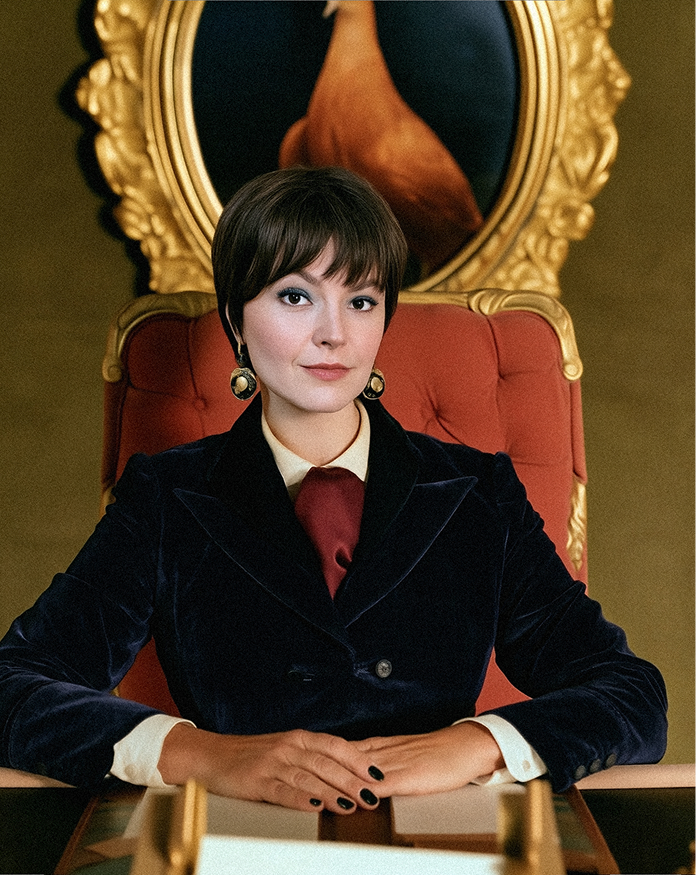
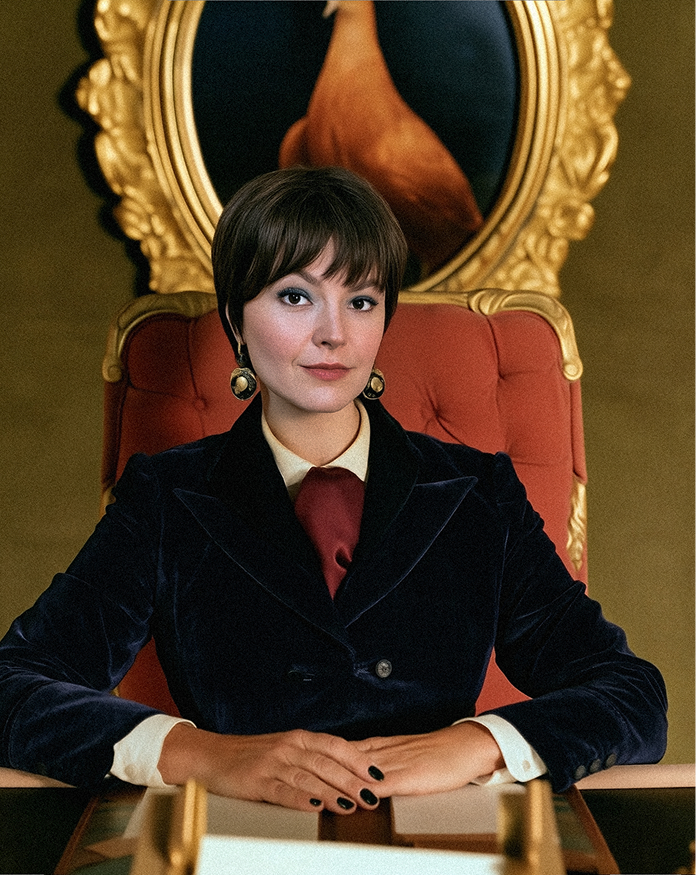
Add files via upload

Changed region(s): [[0.3621, 0.3703, 0.5431, 0.5246]]

diff --git a/index.html b/index.html
@@ -507,9 +507,13 @@
         <div class="employee-meta"><span>Employee ID</span><span>011</span></div>
       </div>
       <div class="employee">
-        <div class="employee-photo">NL</div>
-        <div class="employee-name">Natalia Lipgart</div>
-        <div class="employee-role">Position pending</div>
+        <div class="employee-photo"><img src="natasha.jpg" alt="Natasha Lipgart" loading="lazy"></div>
+        <div class="employee-name">Natasha Lipgart</div>
+        <div class="employee-role">Chief Pet Officer (CPO)</div>
+        <ul class="employee-duties">
+          <li>Species inclusion</li>
+          <li>Pet headcount</li>
+        </ul>
         <div class="employee-meta"><span>Employee ID</span><span>012</span></div>
       </div>
       <div class="employee">
